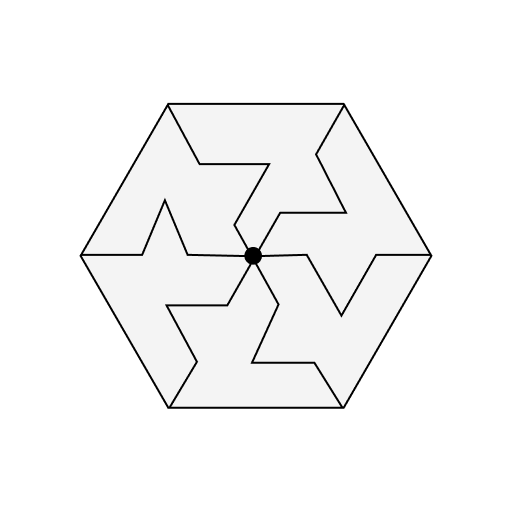
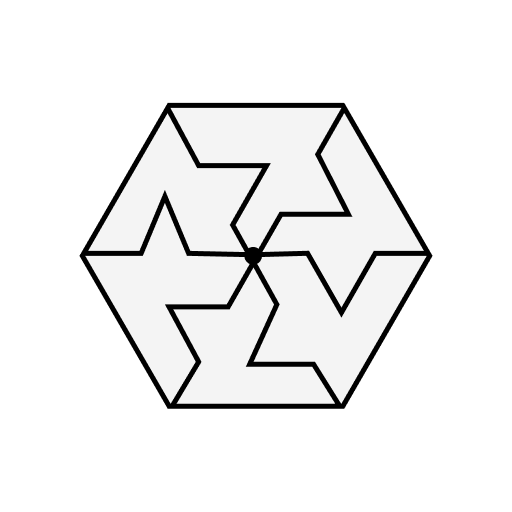
Update on shapes and colours
Shapes to be sharper and better. Supports colourblind friendlyness

diff --git a/Board.js b/Board.js
@@ -2,14 +2,6 @@ import { Image, StyleSheet, View } from 'react-native'
 
 export default function Board({ data, finalCombinations, diceValues }) {
     const newDiceValues = [...diceValues];
-    const colors = {
-        black: '#231F1E',
-        blue: '#387DA7',
-        green: '#8ABF3B',
-        red: '#C21D21',
-        white:'#D4D3D0',
-        yellow: '#C19300'
-    };
     return (
         <View style={styles.imageContainer}>
             {[...Array(4)].map((x, column) =>
@@ -25,11 +17,18 @@ export default function Board({ data, finalCombinations, diceValues }) {
                         if (combination !== 'empty' && combination !== 'x') {
                             diceValue = data[newDiceValues.pop()];
                             const [color, shape] = combination.split('_');
-                            pattern = (<Image
-                                key={`${row * 4 + column}_${combination}`}
-                                style={[styles.image, { backgroundColor: colors[color]}]}
-                                source={data[shape]}
-                            />);
+                            pattern = (
+                                <>
+                                    <Image
+                                        style={[styles.image]}
+                                        source={data[color]}
+                                    />
+                                    <Image
+                                        key={`${row * 4 + column}_${combination}`}
+                                        style={[styles.image, { position: 'absolute' }]}
+                                        source={data[shape]}
+                                    />
+                                </>);
                         }
                         return (
                             <View key={`${row * 4 + column}`}>

diff --git a/Board.native.js b/Board.native.js
@@ -2,14 +2,6 @@ import { Image, StyleSheet, View } from 'react-native'
 
 export default function Board({ data, finalCombinations, diceValues }) {
     const newDiceValues = [...diceValues];
-    const colors = {
-        black: '#231F1E',
-        blue: '#387DA7',
-        green: '#8ABF3B',
-        red: '#C21D21',
-        white:'#D4D3D0',
-        yellow: '#C19300'
-    };
     return (
         <View style={styles.imageContainer}>
             {[...Array(4)].map((x, column) =>
@@ -25,11 +17,18 @@ export default function Board({ data, finalCombinations, diceValues }) {
                         if (combination !== 'empty' && combination !== 'x') {
                             diceValue = data[newDiceValues.pop()];
                             const [color, shape] = combination.split('_');
-                            pattern = (<Image
-                                key={`${row * 4 + column}_${combination}`}
-                                style={[styles.image, { backgroundColor: colors[color]}]}
-                                source={data[shape]}
-                            />);
+                            pattern = (
+                                <>
+                                    <Image
+                                        style={[styles.image]}
+                                        source={data[color]}
+                                    />
+                                    <Image
+                                        key={`${row * 4 + column}_${combination}`}
+                                        style={[styles.image, { position: 'absolute' }]}
+                                        source={data[shape]}
+                                    />
+                                </>);
                         }
                         return (
                             <View key={`${row * 4 + column}`}>

diff --git a/App.js b/App.js
@@ -19,6 +19,13 @@ const data = {
   dice_value_5: require('./assets/combinations/5.png'),
   dice_value_6: require('./assets/combinations/6.png'),
 
+  black: require('./assets/combinations/black.png'),
+  blue: require('./assets/combinations/blue.png'),
+  green: require('./assets/combinations/green.png'),
+  red: require('./assets/combinations/red.png'),
+  white: require('./assets/combinations/white.png'),
+  yellow: require('./assets/combinations/yellow.png'),
+
   x: require('./assets/combinations/X.png')
 }
 
